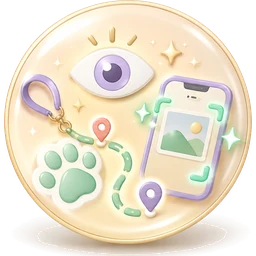
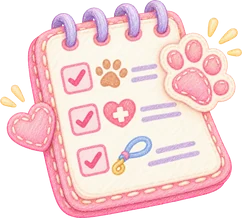
feat(web): 매일 댕생활 띠 ②안 — 색연필 단계 아이콘 · 크림·연분홍 종이 바탕 · 분홍 버튼

diff --git a/components/home/DailyMineTeaser.tsx b/components/home/DailyMineTeaser.tsx
@@ -1,21 +1,22 @@
 "use client";
 
 /**
- * DailyMineTeaser — 메인 "매일 댕생활" 안내 띠(협업자 기능 · 2026-10-19 겉모양 B안 "파스텔 배너형", 사용자 결정)
+ * DailyMineTeaser — 메인 "매일 댕생활" 안내 띠(협업자 기능 · 2026-10-19 겉모양: 사용자 색연필 아이콘 + 크림·연분홍 종이 + 분홍 버튼, 사용자 결정)
  * ---------------------------------------------------------------------
  * 안내 섹션이다 — 세 단계(출석 도장 · 돌봄 실천 체크 · AI 변화 기록)는 누르는 칸이 아니라 설명이고, 누르는 곳은 버튼 하나.
  * 예전에는 흰 상자 세 칸이 버튼처럼 보이고 정작 버튼은 옅은 점선이라 헷갈렸다 → 웹 메인 다른 섹션(기획전 · 신상품)과 같은
- * 제목 + 회색 부제, 3D 아이콘(사용자 그림 tools/sticker-assets/originals/daily-steps.png 를 세 장으로) 을 점선으로 이은 흐름,
- * 검정 알약 버튼 하나. 이동 주소(/treasure-mine/) · 회원/비회원 버튼 문구 · 의료 점수 아님 안내 · 움직임 범위 표시는 그대로.
+ * 제목 + 회색 부제, 색연필 아이콘 3장(사용자 그림 tools/sticker-assets/originals/daily-main-*.png — 장난감 벽지와 같은 결)을
+ * 분홍 점선으로 이은 흐름, 아이콘 색을 잇는 따뜻한 크림·연분홍 종이 바탕, 분홍 알약 버튼 하나. 이동 주소(/treasure-mine/) · 회원/비회원 버튼 문구 · 의료 점수 아님 안내 · 움직임 범위 표시는 그대로.
  */
 import Image from "next/image";
 import Link from "next/link";
 import { useAuth } from "@/lib/store";
 
+// 아이콘 크기(w · h)는 그림 파일 크기 그대로 — 눈에 보이는 면적이 같게 만든 그림이라 가로로 긴 AI 아이콘도 작아 보이지 않음
 const DAILY_STEPS = [
-    { label: "출석 도장", detail: "하루 한 번 2코인", icon: "/images/ui/daily-checkin-256.webp" },
-    { label: "돌봄 실천 체크", detail: "산책·눈 상태 기록", icon: "/images/ui/daily-care-256.webp" },
-    { label: "AI 변화 기록", detail: "사진·주간 비교 이어보기", icon: "/images/ui/daily-change-256.webp" },
+    { label: "출석 도장", detail: "하루 한 번 2코인", icon: "/images/ui/daily-checkin-256.webp", w: 240, h: 203 },
+    { label: "돌봄 실천 체크", detail: "산책·눈 상태 기록", icon: "/images/ui/daily-care-256.webp", w: 242, h: 218 },
+    { label: "AI 변화 기록", detail: "사진·주간 비교 이어보기", icon: "/images/ui/daily-change-256.webp", w: 268, h: 176 },
 ] as const;
 
 export default function DailyMineTeaser() {
@@ -31,14 +32,19 @@ export default function DailyMineTeaser() {
                     <p className="text-sm text-neutral-500">오늘 한 가지만 기록해 볼까요? 약 3분이면 충분해요</p>
                 </div>
 
-                {/* 파스텔 배너 — 아이콘 색(민트 · 버터 · 라벤더)을 잇는 옅은 바탕 */}
-                <div className="grid items-center gap-5 rounded-3xl bg-[linear-gradient(110deg,#eaf7ef_0%,#fdf6e3_50%,#f1ecfd_100%)] px-3.5 py-6 lg:grid-cols-[minmax(0,1fr)_auto] lg:gap-7 lg:px-8 lg:py-8">
+                {/* 따뜻한 종이 배너 — 아이콘의 크림 바탕 · 분홍 테두리를 잇는 크림·연분홍 */}
+                <div className="grid items-center gap-5 rounded-3xl bg-[linear-gradient(110deg,#fff7ef_0%,#fff1ec_55%,#fdeef4_100%)] px-3.5 py-6 shadow-[inset_0_0_0_1.5px_rgba(240,190,200,0.45)] lg:grid-cols-[minmax(0,1fr)_auto] lg:gap-7 lg:px-8 lg:py-8">
                     {/* 세 단계 — 설명(누르는 칸 아님), 점선으로 이어진 흐름 */}
                     <ol className="relative grid grid-cols-3 gap-2 text-center lg:gap-3" aria-label="오늘의 세 가지 루틴">
-                        <span aria-hidden="true" className="absolute left-[16%] right-[16%] top-[34px] border-t-2 border-dashed border-[rgba(120,110,150,0.28)] lg:top-[50px]" />
+                        <span aria-hidden="true" className="absolute left-[16%] right-[16%] top-[38px] border-t-2 border-dashed border-[rgba(232,140,165,0.45)] lg:top-[56px]" />
                         {DAILY_STEPS.map((step, index) => (
                             <li key={step.label} className="relative">
-                                <Image src={step.icon} alt="" width={100} height={100} className="mx-auto mb-2.5 h-[68px] w-[68px] lg:h-[100px] lg:w-[100px]" />
+                                {/* 아이콘 칸 높이를 같게 두고 아래에 맞춤(글자 줄이 나란히) — 크기는 휴대폰 0.34배 · PC 0.5배 */}
+                                <span className="mx-auto mb-2.5 flex h-[76px] items-end justify-center lg:h-[112px]">
+                                    <Image src={step.icon} alt="" width={step.w} height={step.h}
+                                        className="h-auto w-[calc(var(--w)*0.34px)] lg:w-[calc(var(--w)*0.5px)]"
+                                        style={{ ["--w" as string]: step.w }} />
+                                </span>
                                 <strong className="block text-[13px] font-black tracking-tight text-neutral-900 lg:text-[15px]">
                                     <span className="mr-1.5 hidden h-5 w-5 place-items-center rounded-full bg-white/80 align-[1px] text-[11px] font-black text-neutral-500 lg:inline-grid">{index + 1}</span>
                                     {step.label}

diff --git a/app/globals.css b/app/globals.css
@@ -1959,13 +1959,13 @@ header + main .hero-shell {
     transform: rotate(-0.6deg) translateY(-1px);
 }
 
-/* 메인 "매일 댕생활" 띠(DailyMineTeaser, 2026-10-19 B안) — 같은 버튼 이름표(ddb-crayon-link · 반짝임 ddb-attention-cta)는 두고
-   모양만 웹 섹션 버튼처럼 검정 알약(크레파스 점선 · 손글씨 대신) */
+/* 메인 "매일 댕생활" 띠(DailyMineTeaser, 2026-10-19) — 같은 버튼 이름표(ddb-crayon-link · 반짝임 ddb-attention-cta)는 두고
+   모양만 아이콘 분홍에 맞춘 분홍 알약(크레파스 점선 · 손글씨 대신) */
 [data-daily-mine-teaser] .ddb-crayon-link {
     border: 0 !important;
-    background: #17171c !important;
+    background: #e9789a !important;
     color: #fff !important;
-    box-shadow: 0 8px 18px -10px rgba(0, 0, 0, 0.45) !important;
+    box-shadow: 0 8px 18px -10px rgba(200, 80, 120, 0.55) !important;
     font-family: var(--font-wanted-sans), sans-serif;
     font-weight: 800;
 }
